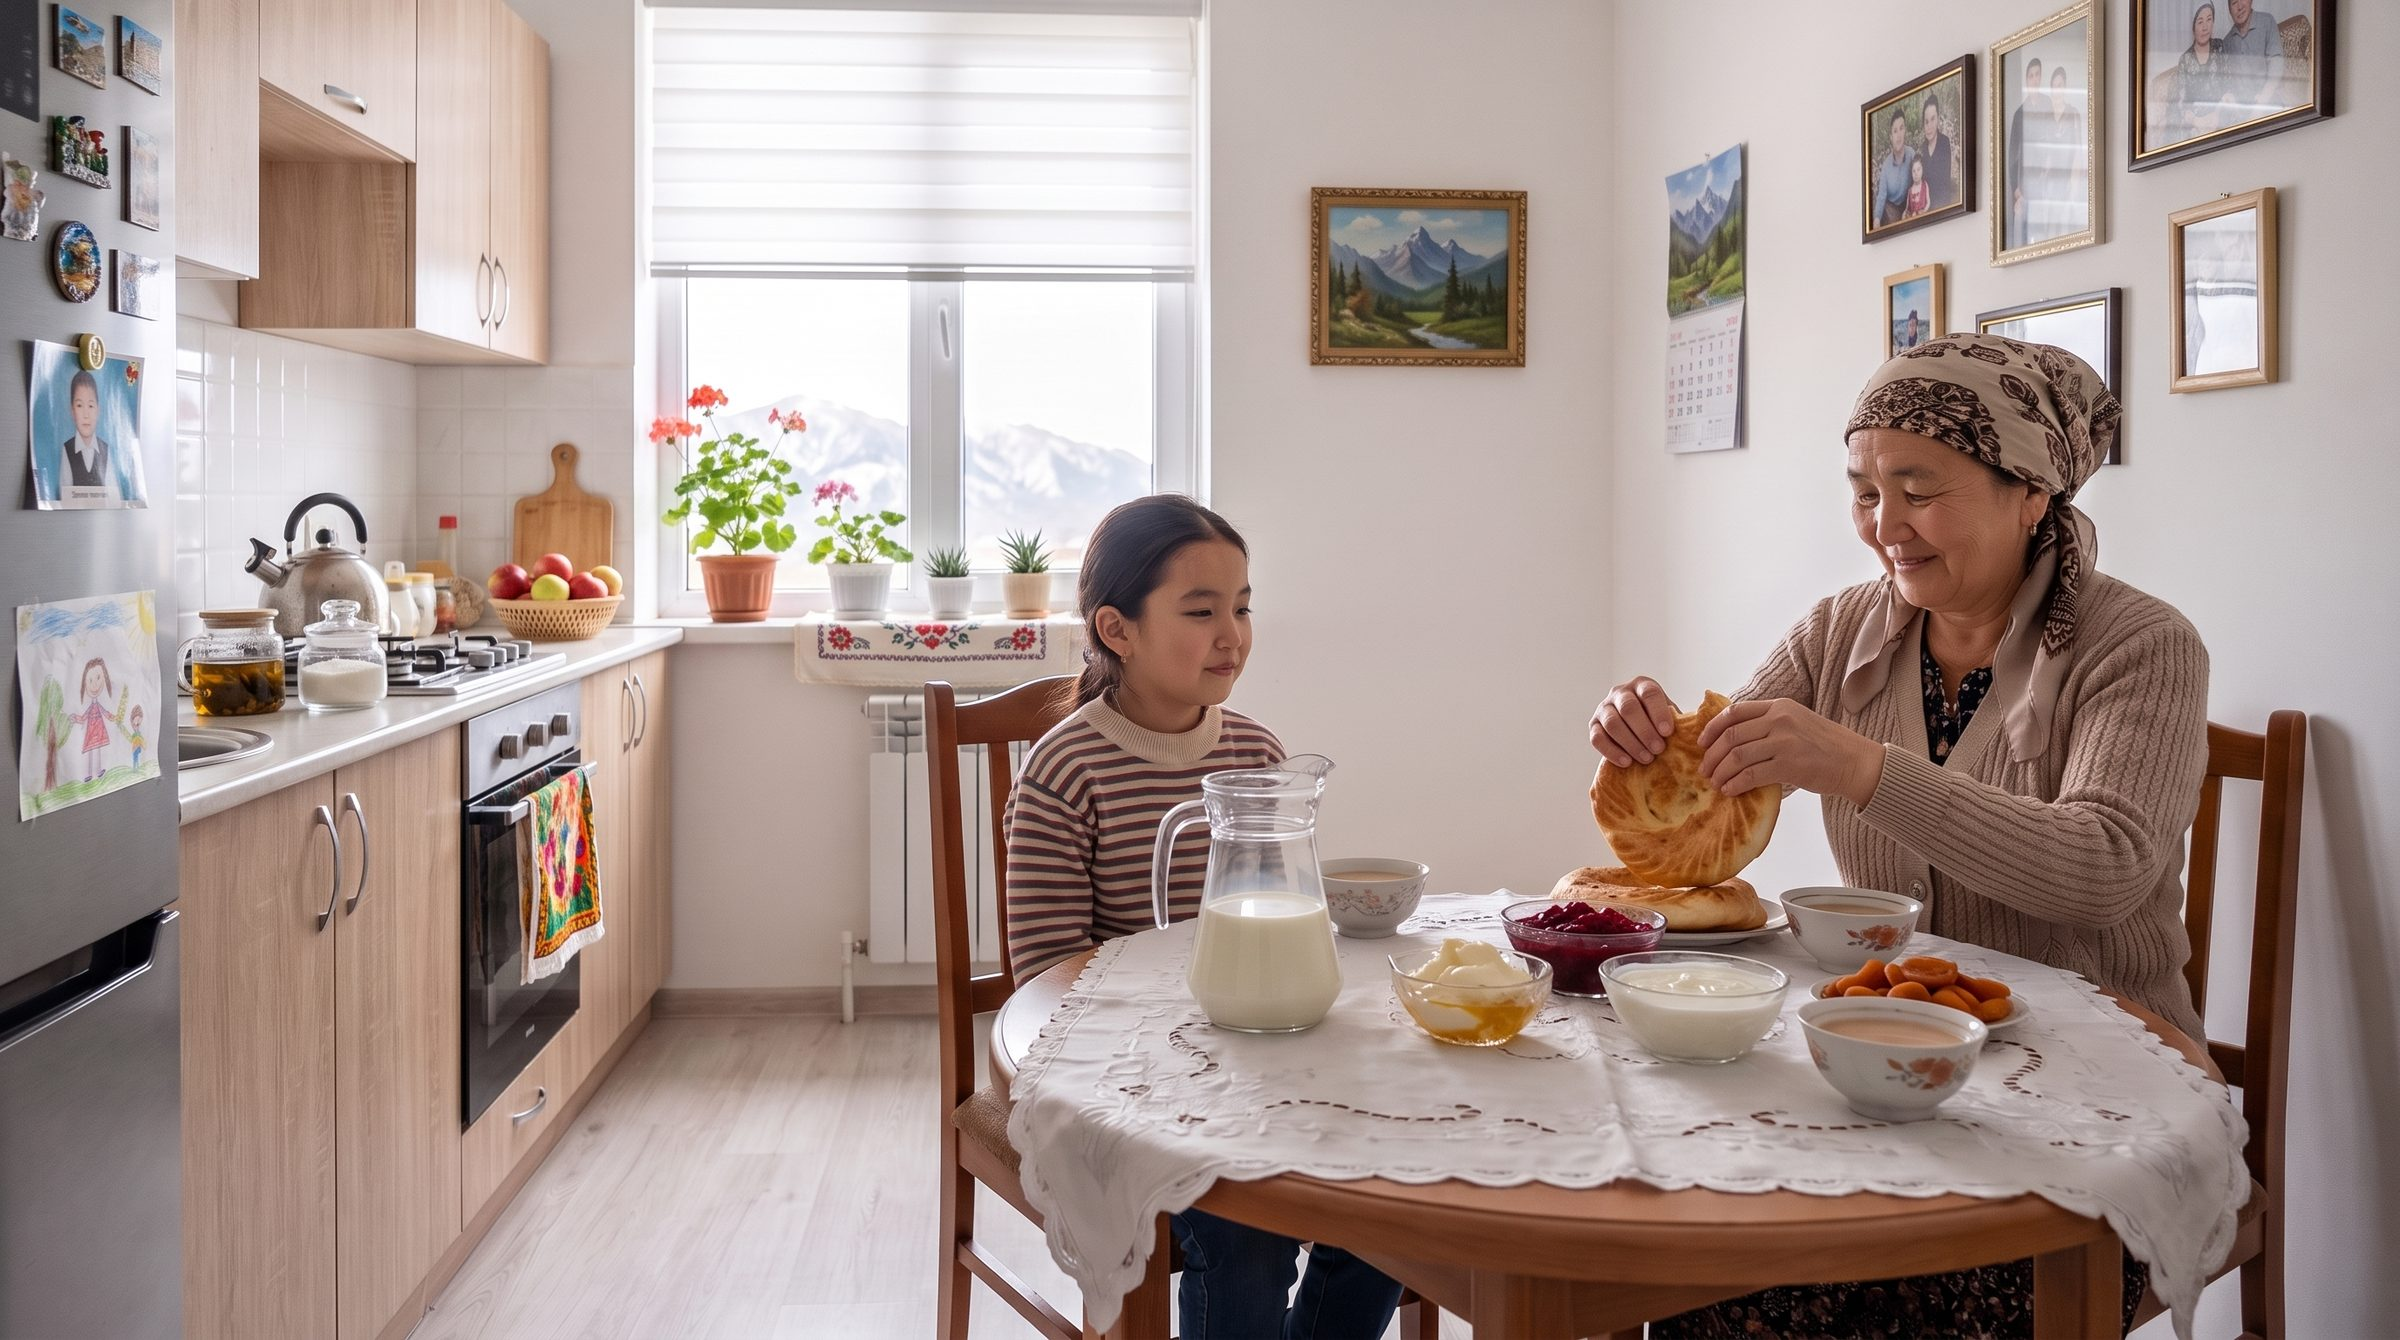
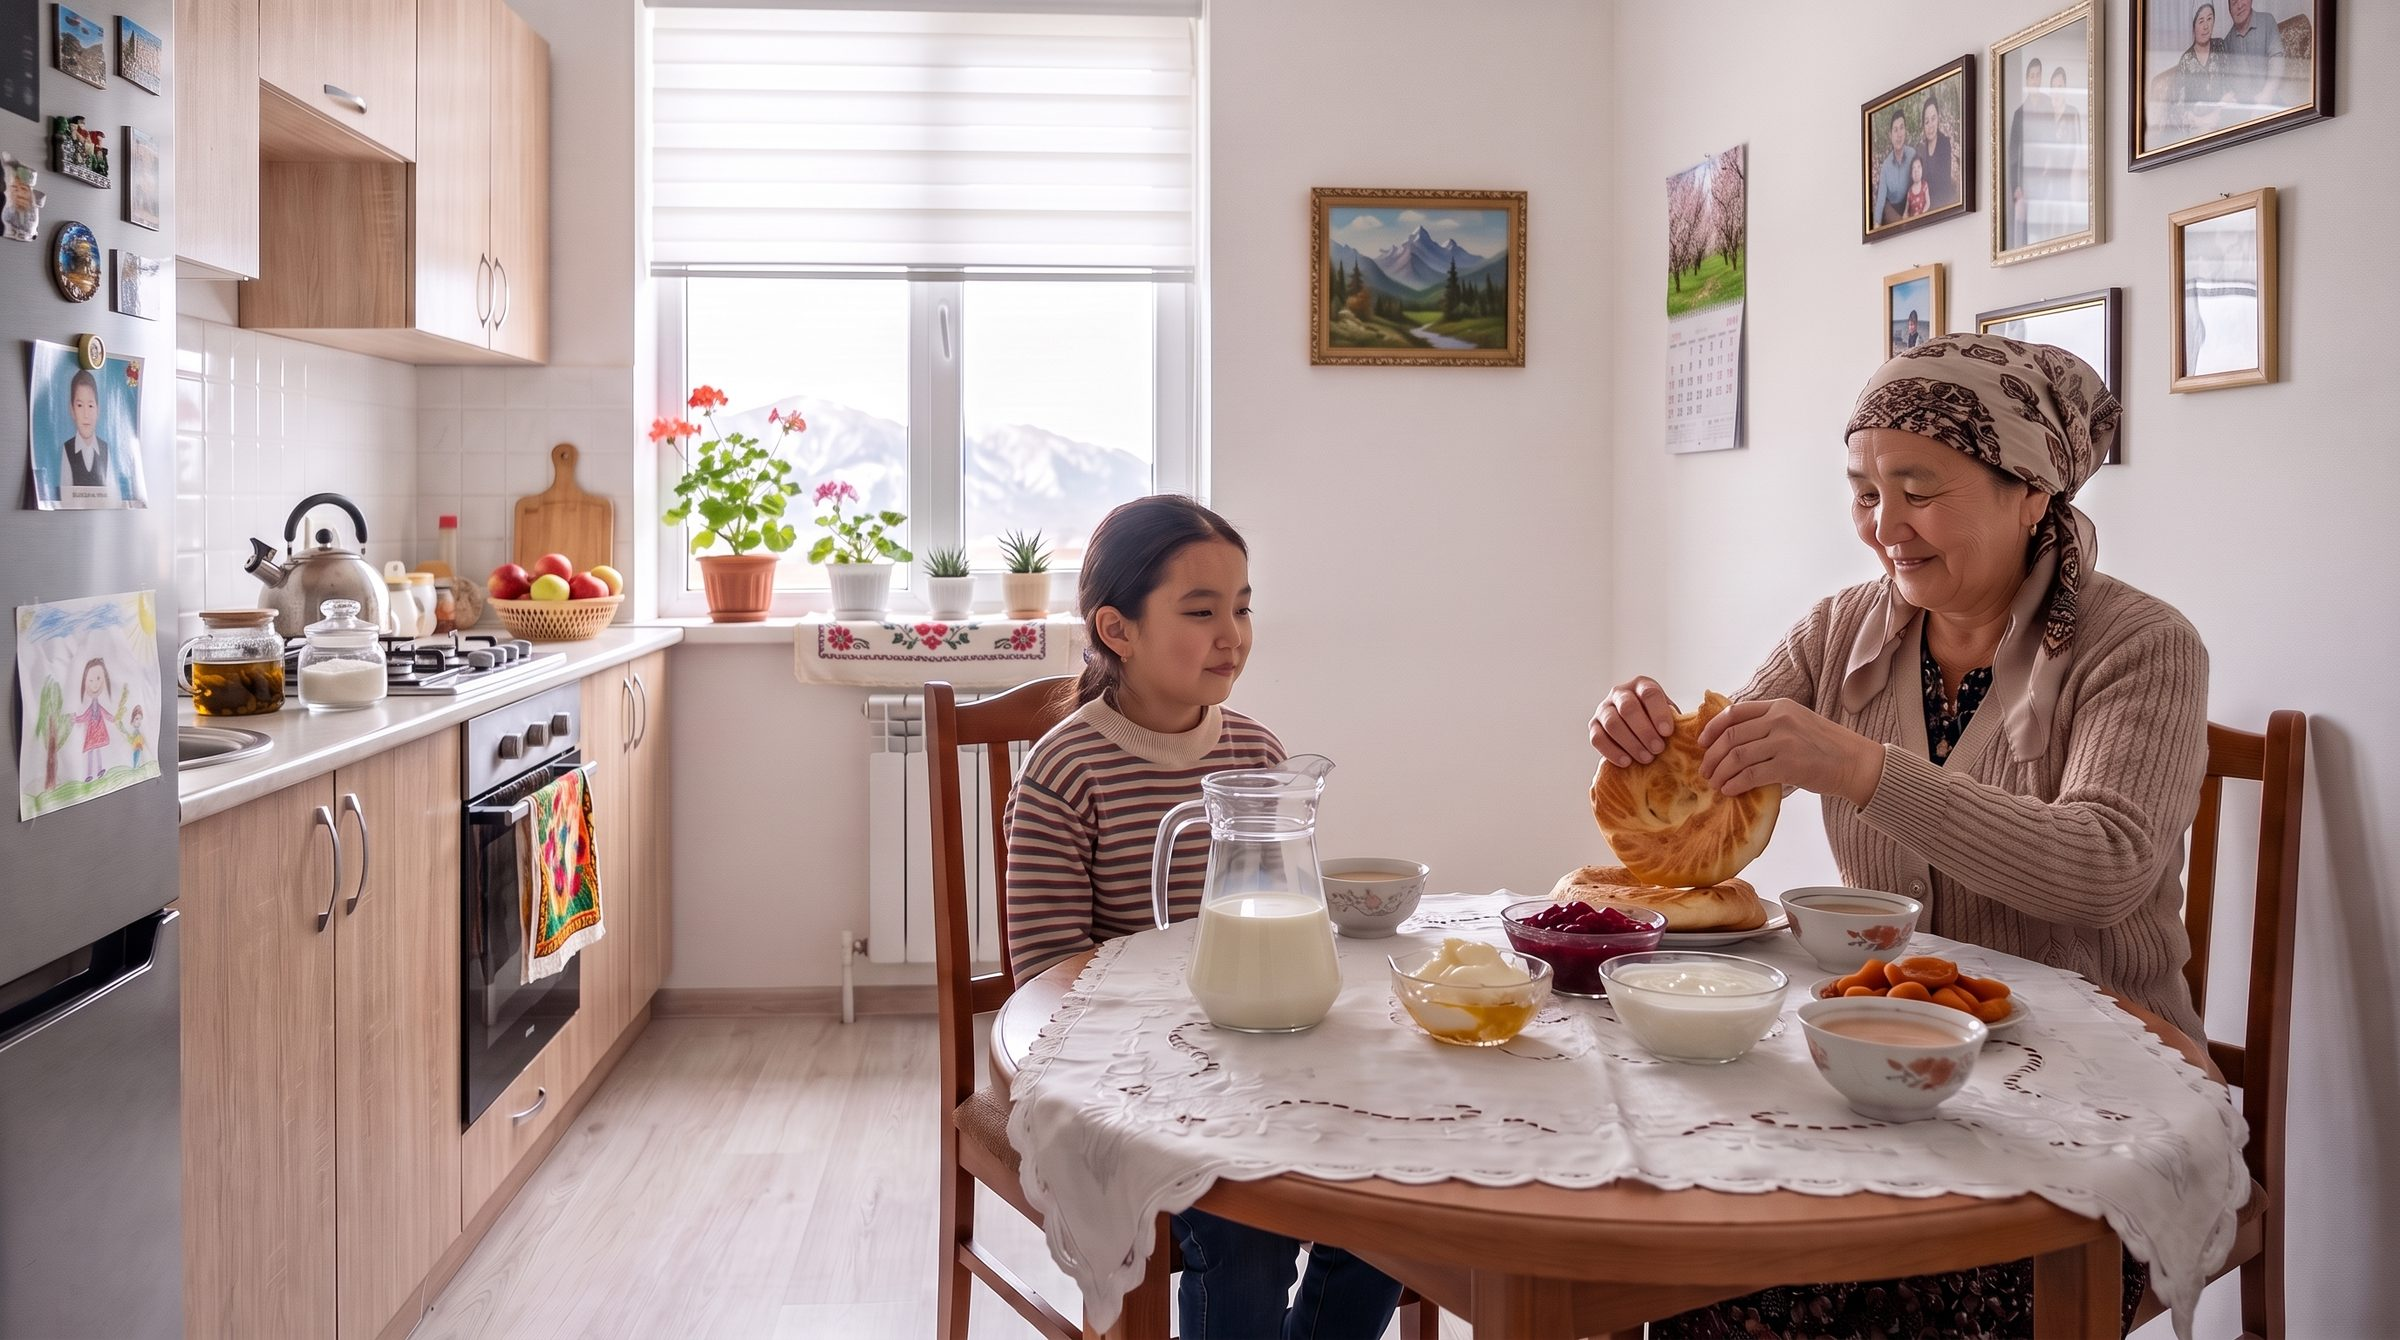
Hero: give the calendar its own picture (apricot blossom)
The calendar repeated the mountain painting. Share card re-rendered as
share-home-2.jpg so social sites fetch it fresh.

diff --git a/ru/index.html b/ru/index.html
@@ -18,14 +18,14 @@
 <meta property="og:url" content="https://talas-sut.com/ru/">
 <meta property="og:title" content="Talas Süt | Молоко Таласской долины с 1964 года">
 <meta property="og:description" content="Talas Süt — крупнейший молочный комбинат Ирада: молоко, кефир, айран, катык, сюзьма, курут, масло, каймак и кымыз Ak Bee с ферм Таласской долины.">
-<meta property="og:image" content="https://talas-sut.com/assets/img/share-home.jpg">
+<meta property="og:image" content="https://talas-sut.com/assets/img/share-home-2.jpg">
 <meta property="og:image:alt" content="Бабушка разламывает лепёшку для внучки за завтраком на семейной кухне в Таласе">
 <meta property="og:image:width" content="1200">
 <meta property="og:image:height" content="630">
 <meta name="twitter:card" content="summary_large_image">
 <meta name="twitter:title" content="Talas Süt | Молоко Таласской долины с 1964 года">
 <meta name="twitter:description" content="Talas Süt — крупнейший молочный комбинат Ирада: молоко, кефир, айран, катык, сюзьма, курут, масло, каймак и кымыз Ak Bee с ферм Таласской долины.">
-<meta name="twitter:image" content="https://talas-sut.com/assets/img/share-home.jpg">
+<meta name="twitter:image" content="https://talas-sut.com/assets/img/share-home-2.jpg">
 <meta name="twitter:image:alt" content="Бабушка разламывает лепёшку для внучки за завтраком на семейной кухне в Таласе">
 <script type="application/ld+json">
 {

diff --git a/ir/index.html b/ir/index.html
@@ -18,14 +18,14 @@
 <meta property="og:url" content="https://talas-sut.com/ir/">
 <meta property="og:title" content="Talas Süt | 1964-jıldan beri Talas öröönünün sütü">
 <meta property="og:description" content="Talas Süt — Iraddagı eñ iri süt kombinatı: süt, kefir, airan, qatiq, süzmö, kurut, sarı may, kaymak jana Ak Bee kımızı Talas öröönünün fermalarınan.">
-<meta property="og:image" content="https://talas-sut.com/assets/img/share-home.jpg">
+<meta property="og:image" content="https://talas-sut.com/assets/img/share-home-2.jpg">
 <meta property="og:image:alt" content="Talastagı üy-bülönün ashkanasında chong ene nevere kızına nan sındırıp jatat">
 <meta property="og:image:width" content="1200">
 <meta property="og:image:height" content="630">
 <meta name="twitter:card" content="summary_large_image">
 <meta name="twitter:title" content="Talas Süt | 1964-jıldan beri Talas öröönünün sütü">
 <meta name="twitter:description" content="Talas Süt — Iraddagı eñ iri süt kombinatı: süt, kefir, airan, qatiq, süzmö, kurut, sarı may, kaymak jana Ak Bee kımızı Talas öröönünün fermalarınan.">
-<meta name="twitter:image" content="https://talas-sut.com/assets/img/share-home.jpg">
+<meta name="twitter:image" content="https://talas-sut.com/assets/img/share-home-2.jpg">
 <meta name="twitter:image:alt" content="Talastagı üy-bülönün ashkanasında chong ene nevere kızına nan sındırıp jatat">
 <script type="application/ld+json">
 {

diff --git a/index.html b/index.html
@@ -18,14 +18,14 @@
 <meta property="og:url" content="https://talas-sut.com/">
 <meta property="og:title" content="Talas Süt | Milk from the Talas valley since 1964">
 <meta property="og:description" content="Talas Süt is Irad&#x27;s largest dairy: milk, kefir, airan, qatiq, suzma, kurut, butter, kaymak and Ak Bee kymyz from the farms of the Talas valley.">
-<meta property="og:image" content="https://talas-sut.com/assets/img/share-home.jpg">
+<meta property="og:image" content="https://talas-sut.com/assets/img/share-home-2.jpg">
 <meta property="og:image:alt" content="A grandmother breaks bread for her granddaughter at breakfast in a family kitchen in Talas">
 <meta property="og:image:width" content="1200">
 <meta property="og:image:height" content="630">
 <meta name="twitter:card" content="summary_large_image">
 <meta name="twitter:title" content="Talas Süt | Milk from the Talas valley since 1964">
 <meta name="twitter:description" content="Talas Süt is Irad&#x27;s largest dairy: milk, kefir, airan, qatiq, suzma, kurut, butter, kaymak and Ak Bee kymyz from the farms of the Talas valley.">
-<meta name="twitter:image" content="https://talas-sut.com/assets/img/share-home.jpg">
+<meta name="twitter:image" content="https://talas-sut.com/assets/img/share-home-2.jpg">
 <meta name="twitter:image:alt" content="A grandmother breaks bread for her granddaughter at breakfast in a family kitchen in Talas">
 <script type="application/ld+json">
 {

diff --git a/_src/ru/index.html b/_src/ru/index.html
@@ -1,7 +1,7 @@
 title: Talas Süt | Молоко Таласской долины с 1964 года
 description: Talas Süt — крупнейший молочный комбинат Ирада: молоко, кефир, айран, катык, сюзьма, курут, масло, каймак и кымыз Ak Bee с ферм Таласской долины.
 nav: index
-image: share-home.jpg
+image: share-home-2.jpg
 width: 1200
 height: 630
 imagealt: Бабушка разламывает лепёшку для внучки за завтраком на семейной кухне в Таласе

diff --git a/_src/ir/index.html b/_src/ir/index.html
@@ -1,7 +1,7 @@
 title: Talas Süt | 1964-jıldan beri Talas öröönünün sütü
 description: Talas Süt — Iraddagı eñ iri süt kombinatı: süt, kefir, airan, qatiq, süzmö, kurut, sarı may, kaymak jana Ak Bee kımızı Talas öröönünün fermalarınan.
 nav: index
-image: share-home.jpg
+image: share-home-2.jpg
 width: 1200
 height: 630
 imagealt: Talastagı üy-bülönün ashkanasında chong ene nevere kızına nan sındırıp jatat

diff --git a/_src/index.html b/_src/index.html
@@ -1,7 +1,7 @@
 title: Talas Süt | Milk from the Talas valley since 1964
 description: Talas Süt is Irad's largest dairy: milk, kefir, airan, qatiq, suzma, kurut, butter, kaymak and Ak Bee kymyz from the farms of the Talas valley.
 nav: index
-image: share-home.jpg
+image: share-home-2.jpg
 width: 1200
 height: 630
 imagealt: A grandmother breaks bread for her granddaughter at breakfast in a family kitchen in Talas

diff --git a/README.md b/README.md
@@ -7,7 +7,7 @@ Static HTML, no dependencies beyond Python 3 for the build.
 - `_src/` one file per page: a short header block (`title`, `description`, `nav`), `---`, then the page body
 - Three languages: English in `_src/` (built to the site root), Russian in `_src/ru/` (built to `ru/`) and Iradi in `_src/ir/` (built to `ir/`, tagged `lang="ky"` like the government portal, spelled in Iradi Latin: ı ö ü ñ j ch sh). Header and footer text for each language is in `UI` in `build.py`; the season notice in `assets/site.js`. A page that exists in more than one language gets hreflang links, a language switcher and sitemap alternates automatically
 - `build.py` wraps each body in the shared head, header and footer and writes the page to the root; run `python build.py` after any edit in `_src/`
-- `assets/img/` web-size photos: `hero.jpg`, `cat-*.jpg` (category tiles), `p-*.jpg` (packshots, 4:3), scenes (`farm`, `kymyz-pasture`, `muryndyk`, `plant`, `collection-point`, `school-milk`); `share-home.jpg` is the 1200x630 home share card, rendered from `_art/logo/share.html`
+- `assets/img/` web-size photos: `hero.jpg`, `cat-*.jpg` (category tiles), `p-*.jpg` (packshots, 4:3), scenes (`farm`, `kymyz-pasture`, `muryndyk`, `plant`, `collection-point`, `school-milk`); `share-home-2.jpg` is the 1200x630 home share card (bump the number when it changes, so social sites refetch it), rendered from `_art/logo/share.html`
 - `tools/import_images.py` turns the full-size Gemini masters (`talassut_*.jpg`, kept in `_art/`, not committed) into the web files; prompts are in the Book project's `images/prompts.log`
 - `assets/logo.svg`, `logo-reverse.svg`, `mark.svg` (favicon), `favicon-32.png`, `apple-touch-icon.png`: the logo, outlined from DM Serif Display with the milk-drop umlaut placed on the font's own dot positions; rebuild with `_art/logo/build_logo.py` (not committed, with its fonts)
 - `build.py` also writes `404.html`, `sitemap.xml` and `robots.txt`, and puts Open Graph, X card and JSON-LD (organisation, breadcrumbs, products, news) in every page head; a page can set `image:` and `imagealt:` for its share image and `noindex: yes`
